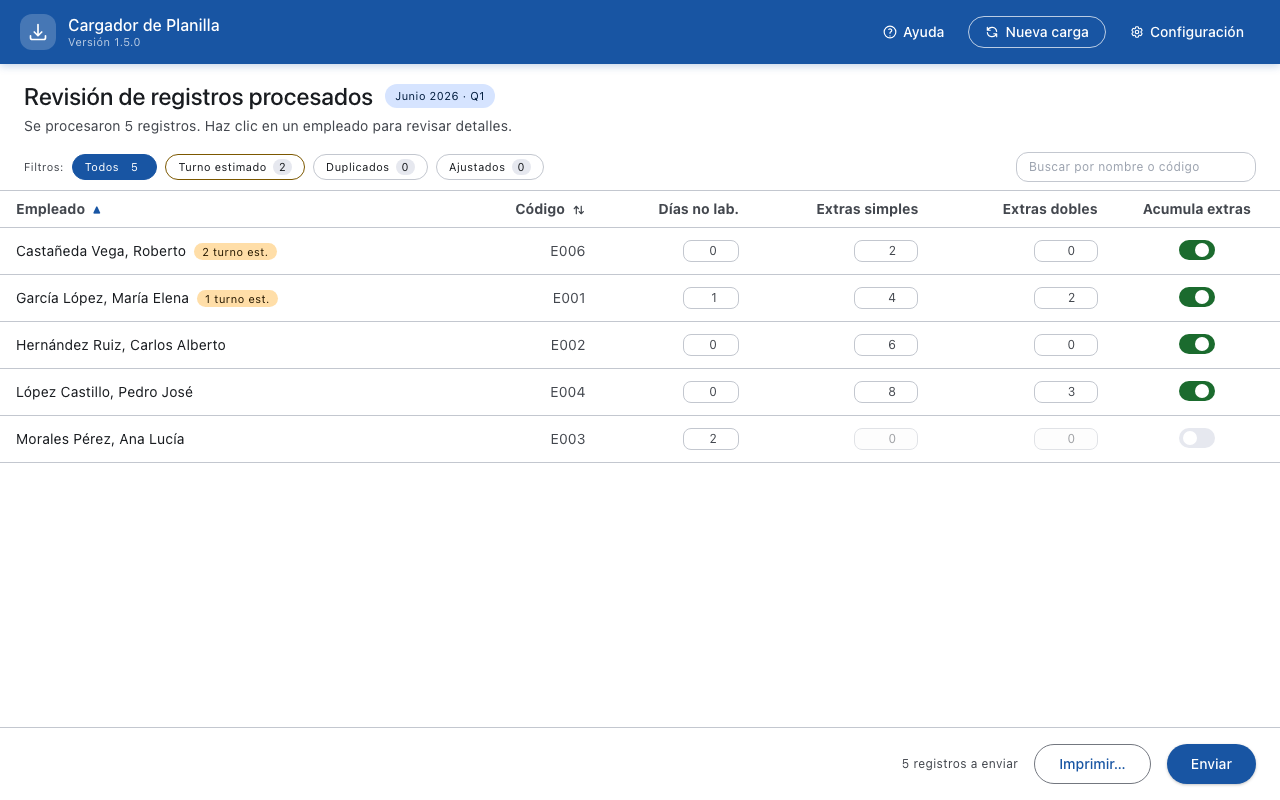
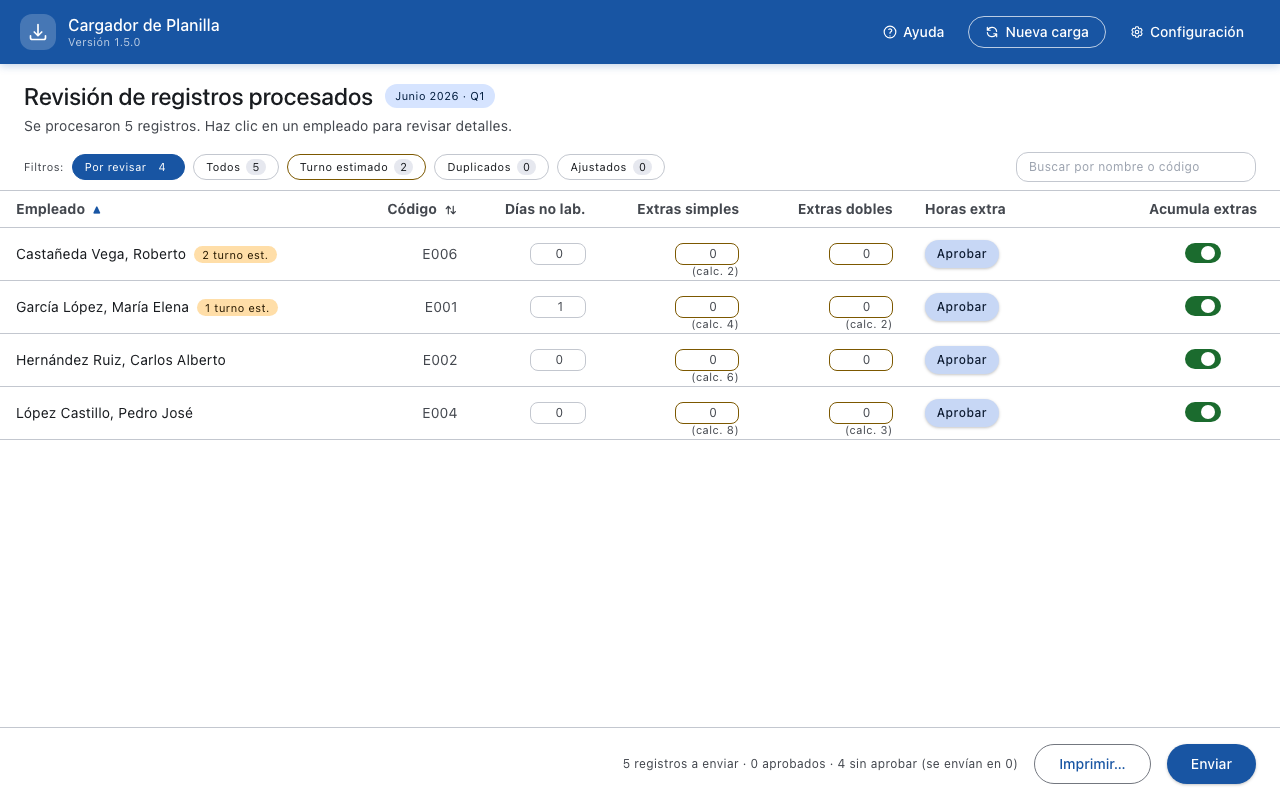
docs: regenerate manual screenshots with the version label; send flows approve overtime first
Claude-Session: https://claude.ai/code/session_01VucHjTz1EwVyp5NPvAmxrY

diff --git a/frontend/e2e/capture-screenshots.spec.ts b/frontend/e2e/capture-screenshots.spec.ts
@@ -115,6 +115,13 @@ async function mockRecomputeTas(page: Page) {
   );
 }
 
+// Overtime nobody approved goes as 0 and asks first; these flows are about what comes after sending.
+async function approveAllAndSend(page: Page) {
+  const approve = page.getByRole('button', { name: /^Aprobar horas extra/ });
+  while (await approve.count() > 0) await approve.first().click();
+  await page.getByRole('button', { name: /^Enviar$/ }).click();
+}
+
 async function screenshot(page: Page, name: string) {
   await page.screenshot({ path: `${SCREENSHOT_DIR}/${name}`, fullPage: false });
 }
@@ -335,7 +342,7 @@ test('11 - result: success', async ({ page }) => {
   await waitForApp(page);
   await uploadFile(page);
   await page.waitForSelector('text=Revisión de registros procesados', { timeout: 10_000 });
-  await page.locator('button:has-text("Enviar")').click();
+  await approveAllAndSend(page);
   await page.waitForSelector('text=Carga completada', { timeout: 15_000 });
   await screenshot(page, '11-result-success.png');
 });
@@ -358,7 +365,7 @@ test('12 - result: partial with retry', async ({ page }) => {
   await waitForApp(page);
   await uploadFile(page);
   await page.waitForSelector('text=Revisión de registros procesados', { timeout: 10_000 });
-  await page.locator('button:has-text("Enviar")').click();
+  await approveAllAndSend(page);
   await page.waitForSelector('text=Carga completada', { timeout: 15_000 });
   await page.waitForSelector('text=con error');
   await screenshot(page, '12-result-partial.png');
@@ -382,7 +389,7 @@ test('13 - result: retries exhausted', async ({ page }) => {
   await waitForApp(page);
   await uploadFile(page);
   await page.waitForSelector('text=Revisión de registros procesados', { timeout: 10_000 });
-  await page.locator('button:has-text("Enviar")').click();
+  await approveAllAndSend(page);
   await page.waitForSelector('text=Se agotaron los reintentos', { timeout: 15_000 });
   await screenshot(page, '13-result-retries-exhausted.png');
 });
@@ -405,7 +412,7 @@ test('14 - absent review overlay', async ({ page }) => {
   await waitForApp(page);
   await uploadFile(page);
   await page.waitForSelector('text=Revisión de registros procesados', { timeout: 10_000 });
-  await page.locator('button:has-text("Enviar")').click();
+  await approveAllAndSend(page);
   await page.waitForSelector('text=Carga completada', { timeout: 15_000 });
   await page.waitForTimeout(500);
   await page.locator('button:has-text("Revisar empleados sin marcaciones")').click();
